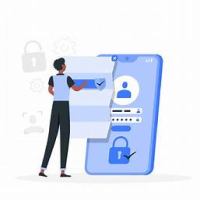
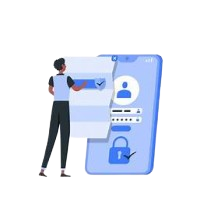
- add delete function to secure storage. - edit otp filed color and otp timer - add sign out functionality.

diff --git a/lib/features/profile/presentation/view/widgets/profile_option_container.dart b/lib/features/profile/presentation/view/widgets/profile_option_container.dart
@@ -1,7 +1,11 @@
 import 'package:flutter/material.dart';
 import 'package:flutter_screenutil/flutter_screenutil.dart';
 import 'package:flutter_svg/flutter_svg.dart';
+import 'package:pharmacy_app/core/database/cache/cache_keys.dart';
+import 'package:pharmacy_app/core/database/cache/secure_storage.dart';
 import 'package:pharmacy_app/core/global_cubits/change_themes_cubit/change_themes_cubit.dart';
+import 'package:pharmacy_app/core/helpers/extentions.dart';
+import 'package:pharmacy_app/core/routers/routing.dart';
 import 'package:pharmacy_app/core/utils/app_colors.dart';
 import 'package:pharmacy_app/core/utils/app_icons.dart';
 import 'package:pharmacy_app/features/profile/presentation/view/widgets/change_language_dialog.dart';
@@ -57,12 +61,21 @@ class ProfileOptionContainer extends StatelessWidget {
               value: Theme.of(context).brightness == Brightness.dark,
               onChanged: (value) {
                 context.read<ChangeThemesCubit>().changeAppTheme();
-              }, //TODO: Implement dark mode
+              },
             ),
           ),
           Divider(),
           ListTile(
-            onTap: () {}, // TODO naigate to sign in and distroy the token
+            onTap: () async {
+              await SecureStorage.instance.deleteData(key: CacheKeys.token);
+              await SecureStorage.instance.deleteData(key: CacheKeys.id);
+              if (context.mounted) {
+                context.pushNamedAndRemoveUntil(
+                  Routing.signIn,
+                  predicate: (route) => false,
+                );
+              }
+            },
             leading: SvgPicture.asset(AppIcons.iconsLogout),
             title: Text(
               S.of(context).logout,

diff --git a/lib/pharmacy_app.dart b/lib/pharmacy_app.dart
@@ -34,7 +34,9 @@ class PharmacyApp extends StatelessWidget {
               initialRoute: Routing.splash,
               theme: Themes.lightTheme,
               darkTheme: Themes.darkTheme,
-              themeMode: context.watch<ChangeThemesCubit>().isDarkMode?ThemeMode.dark:ThemeMode.light,
+              themeMode: context.watch<ChangeThemesCubit>().isDarkMode
+                  ? ThemeMode.dark
+                  : ThemeMode.light,
               onGenerateRoute: AppRouters().generateRoute,
             );
           },

diff --git a/lib/features/auth/presentation/views/widgets/otp_text_form_filed.dart b/lib/features/auth/presentation/views/widgets/otp_text_form_filed.dart
@@ -28,8 +28,6 @@ class OtpTextFromFiled extends StatelessWidget {
       textAlign: TextAlign.center,
       maxLength: 1,
       decoration: const InputDecoration(
-        fillColor: Color(0xffF6F8FA),
-        filled: true,
         counterText: '',
       ),
       keyboardType: TextInputType.number,

diff --git a/lib/core/database/cache/secure_storage.dart b/lib/core/database/cache/secure_storage.dart
@@ -17,4 +17,7 @@ class SecureStorage {
   Future<String?>? getData({required String key}) async {
     return await _flutterSecureStorage.read(key: key);
   }
+  Future<void> deleteData({required String key}) async {
+    return await _flutterSecureStorage.delete(key: key);
+  }
 }

diff --git a/lib/features/auth/presentation/views/widgets/resend_otp_bloc_listener.dart b/lib/features/auth/presentation/views/widgets/resend_otp_bloc_listener.dart
@@ -20,7 +20,7 @@ class ResendOtpBlocListener extends StatefulWidget {
 }
 
 class _ResendOtpBlocListenerState extends State<ResendOtpBlocListener> {
-  int counter = 6;
+  int counter = 60;
   Timer? _timer;
   void ticTack() {
     _timer?.cancel();
